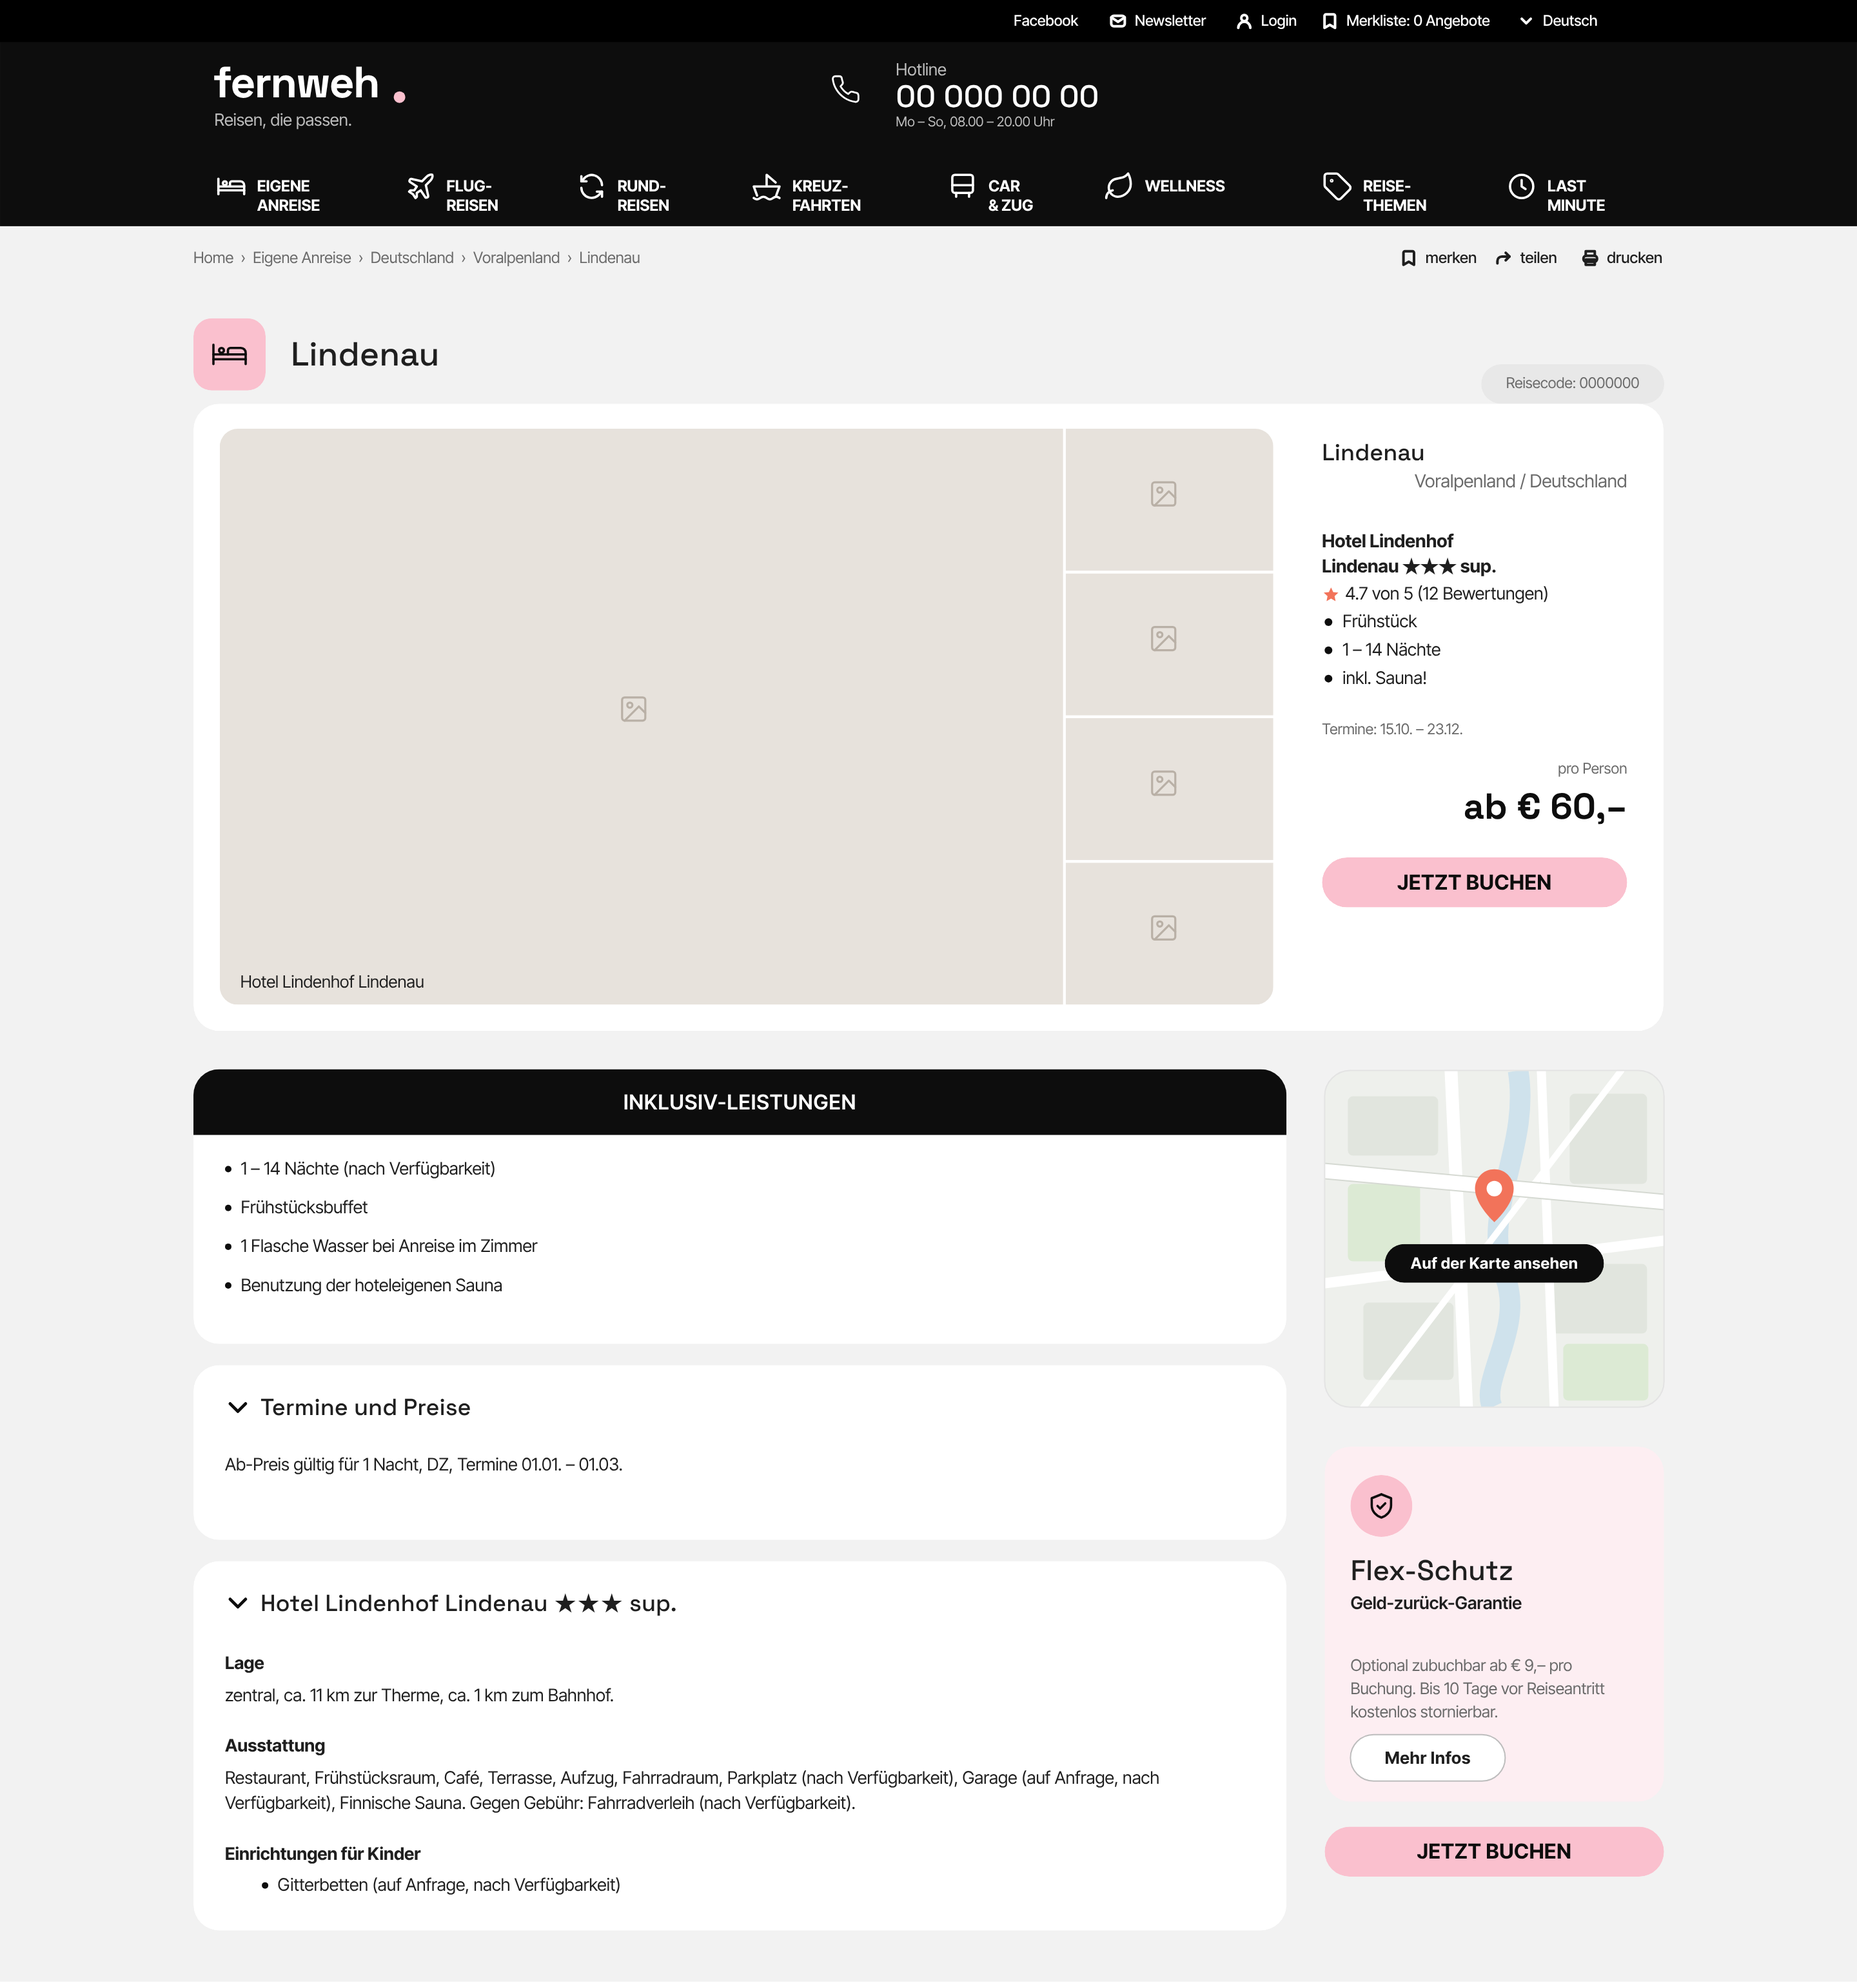
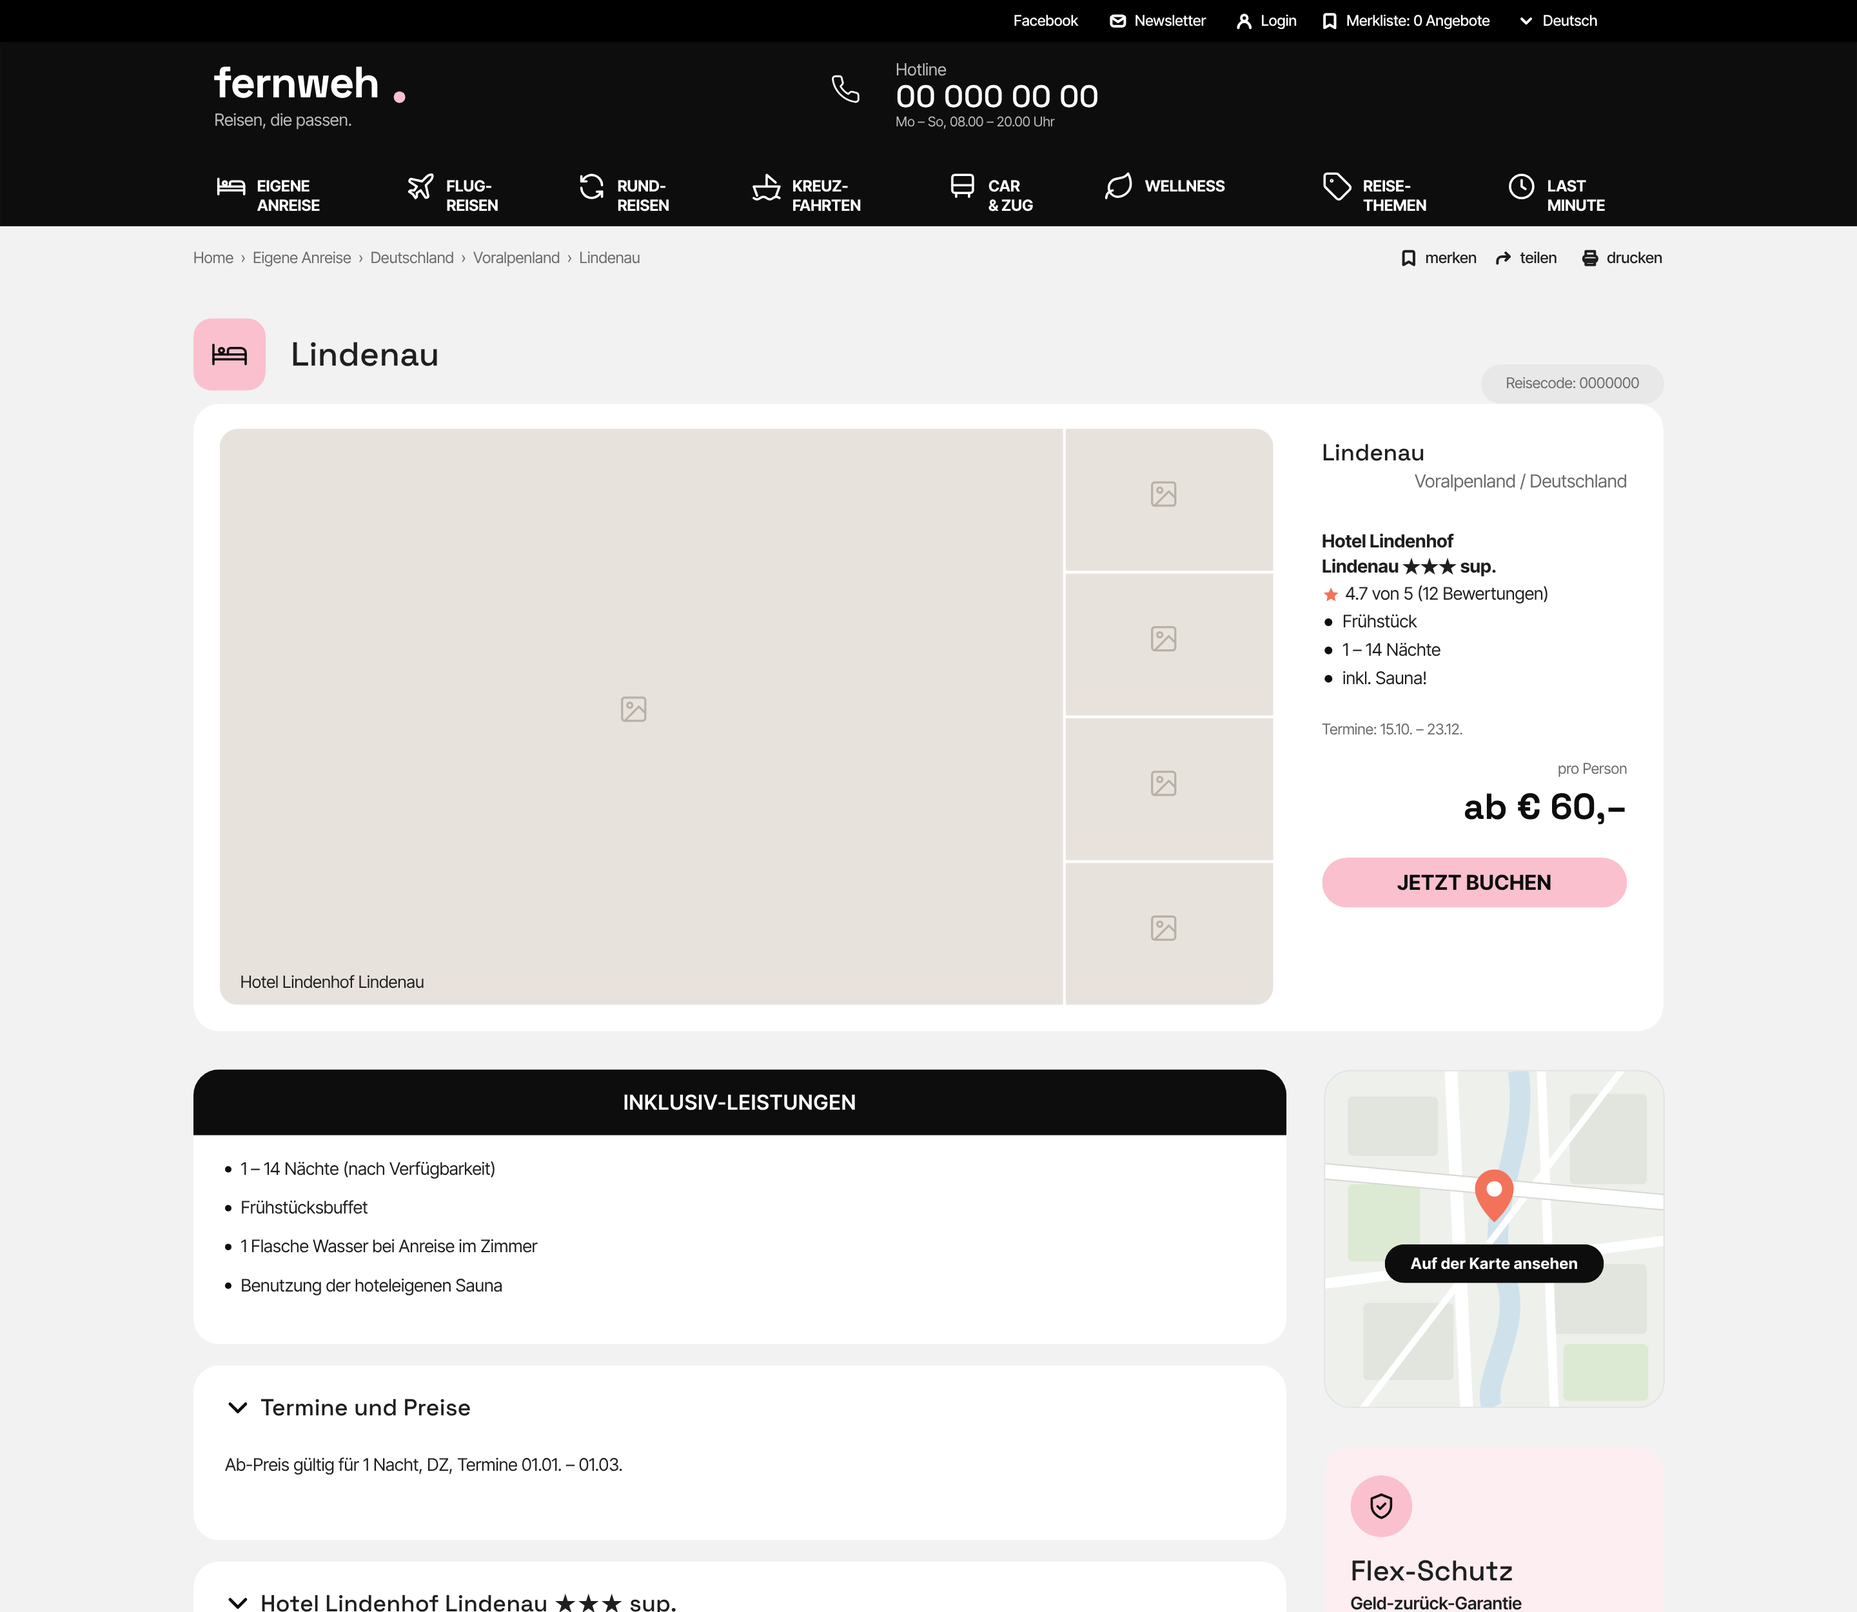
Crop case study screenshots to equal, shorter heights with fade
Claude-Session: https://claude.ai/code/session_01VCpzXNqt47KCJFf8eSNXAM

diff --git a/boat-listing.html b/boat-listing.html
@@ -59,10 +59,10 @@
     </dl>
 
     <div class="compare mobile">
-      <figure class="shot reveal"><div class="frame"><img src="img/cs5/ctrl.png" width="750" height="2920" alt="Control: boat listing on mobile with a long two-column list of more than 30 specifications directly below the price." loading="lazy"></div><figcaption><span class="label">CONTROL</span>Full data list</figcaption></figure>
-      <figure class="shot reveal" style="--d:.08s"><div class="frame"><img src="img/cs5/var1.png" width="750" height="2920" alt="Variant 1: four key facts with icons – year, dimensions, location, engine power – followed by the full list." loading="lazy"></div><figcaption><span class="label alt">VAR 01</span>Key facts + full list</figcaption></figure>
-      <figure class="shot reveal" style="--d:.16s"><div class="frame"><img src="img/cs5/var2.png" width="750" height="2920" alt="Variant 2: four key facts, the full list collapsed behind 'more details', location and remarks move up." loading="lazy"></div><figcaption><span class="label alt">VAR 02</span>Key facts, details collapsed</figcaption></figure>
-      <figure class="shot reveal" style="--d:.24s"><div class="frame"><img src="img/cs5/var3.png" width="750" height="2920" alt="Variant 2 expanded: the full list shown after tapping 'more details', with a 'fewer details' link to collapse it again." loading="lazy"></div><figcaption><span class="label alt">VAR 02</span>…expanded</figcaption></figure>
+      <figure class="shot reveal"><div class="frame cut"><img src="img/cs5/ctrl.png" width="750" height="2000" alt="Control: boat listing on mobile with a long two-column list of more than 30 specifications directly below the price." loading="lazy"></div><figcaption><span class="label">CONTROL</span>Full data list</figcaption></figure>
+      <figure class="shot reveal" style="--d:.08s"><div class="frame cut"><img src="img/cs5/var1.png" width="750" height="2000" alt="Variant 1: four key facts with icons – year, dimensions, location, engine power – followed by the full list." loading="lazy"></div><figcaption><span class="label alt">VAR 01</span>Key facts + full list</figcaption></figure>
+      <figure class="shot reveal" style="--d:.16s"><div class="frame cut"><img src="img/cs5/var2.png" width="750" height="2000" alt="Variant 2: four key facts, the full list collapsed behind 'more details', location and remarks move up." loading="lazy"></div><figcaption><span class="label alt">VAR 02</span>Key facts, details collapsed</figcaption></figure>
+      <figure class="shot reveal" style="--d:.24s"><div class="frame cut"><img src="img/cs5/var3.png" width="750" height="2000" alt="Variant 2 expanded: the full list shown after tapping 'more details', with a 'fewer details' link to collapse it again." loading="lazy"></div><figcaption><span class="label alt">VAR 02</span>…expanded</figcaption></figure>
     </div>
     <p class="note reveal" style="margin-top:14px">Screens recreated and anonymised – marketplace branding, boat, seller and photos replaced with a fictional listing.</p>
 

diff --git a/color-filter.html b/color-filter.html
@@ -59,10 +59,10 @@
     </dl>
 
     <div class="compare mobile">
-      <figure class="shot reveal"><div class="frame"><img src="img/cs4/ctrl.png" width="750" height="2080" alt="Control: mobile product grid with filter and sort buttons, no inline colour filter." loading="lazy"></div><figcaption><span class="label">CONTROL</span>No inline filter</figcaption></figure>
-      <figure class="shot reveal" style="--d:.08s"><div class="frame"><img src="img/cs4/var1.png" width="750" height="2080" alt="Variant 1: inline banner after the first product row showing all 18 colours and an 'apply filter' button." loading="lazy"></div><figcaption><span class="label alt">VAR 01</span>All 18 colours</figcaption></figure>
-      <figure class="shot reveal" style="--d:.16s"><div class="frame"><img src="img/cs4/var2.png" width="750" height="2080" alt="Variant 2: compact banner with five key colours and a chevron to expand." loading="lazy"></div><figcaption><span class="label alt">VAR 02</span>5 colours + chevron</figcaption></figure>
-      <figure class="shot reveal" style="--d:.24s"><div class="frame"><img src="img/cs4/var3.png" width="750" height="2080" alt="Variant 3: compact banner with six key colours, a 'more colours' link and the apply button on the right." loading="lazy"></div><figcaption><span class="label alt">VAR 03</span>6 colours + “more colours”</figcaption></figure>
+      <figure class="shot reveal"><div class="frame cut"><img src="img/cs4/ctrl.png" width="750" height="1660" alt="Control: mobile product grid with filter and sort buttons, no inline colour filter." loading="lazy"></div><figcaption><span class="label">CONTROL</span>No inline filter</figcaption></figure>
+      <figure class="shot reveal" style="--d:.08s"><div class="frame cut"><img src="img/cs4/var1.png" width="750" height="1660" alt="Variant 1: inline banner after the first product row showing all 18 colours and an 'apply filter' button." loading="lazy"></div><figcaption><span class="label alt">VAR 01</span>All 18 colours</figcaption></figure>
+      <figure class="shot reveal" style="--d:.16s"><div class="frame cut"><img src="img/cs4/var2.png" width="750" height="1660" alt="Variant 2: compact banner with five key colours and a chevron to expand." loading="lazy"></div><figcaption><span class="label alt">VAR 02</span>5 colours + chevron</figcaption></figure>
+      <figure class="shot reveal" style="--d:.24s"><div class="frame cut"><img src="img/cs4/var3.png" width="750" height="1660" alt="Variant 3: compact banner with six key colours, a 'more colours' link and the apply button on the right." loading="lazy"></div><figcaption><span class="label alt">VAR 03</span>6 colours + “more colours”</figcaption></figure>
     </div>
     <p class="note reveal" style="margin-top:14px">Screens recreated and anonymised – retailer branding and model photography replaced with a fictional shop and illustrations.</p>
 

diff --git a/pds-redesign.html b/pds-redesign.html
@@ -60,11 +60,11 @@
 
     <div class="compare">
       <figure class="shot reveal">
-        <div class="frame"><img src="img/cs1/ctrl.png" width="2880" height="2200" alt="Original product page (recreated, anonymised): narrow content column next to a category sidebar, small gallery, options, price and protection plans stacked tightly above the add-to-cart button." loading="lazy"></div>
+        <div class="frame cut"><img src="img/cs1/ctrl.png" width="2880" height="2200" alt="Original product page (recreated, anonymised): narrow content column next to a category sidebar, small gallery, options, price and protection plans stacked tightly above the add-to-cart button." loading="lazy"></div>
         <figcaption><span class="label">CONTROL</span>Original entry area</figcaption>
       </figure>
       <figure class="shot reveal" style="--d:.12s">
-        <div class="frame"><img src="img/cs1/var.png" width="2880" height="2840" alt="Redesigned product page (recreated, anonymised): full-width two-column layout with a large gallery on the left and a structured buy box on the right – title block, configuration panel, reference price, delivery info, primary and secondary CTA, protection plans as cards." loading="lazy"></div>
+        <div class="frame cut"><img src="img/cs1/var.png" width="2880" height="2200" alt="Redesigned product page (recreated, anonymised): full-width two-column layout with a large gallery on the left and a structured buy box on the right – title block, configuration panel, reference price, delivery info, primary and secondary CTA, protection plans as cards." loading="lazy"></div>
         <figcaption><span class="label var">VARIANT</span>Redesigned entry area</figcaption>
       </figure>
     </div>

diff --git a/checkout.html b/checkout.html
@@ -60,11 +60,11 @@
 
     <div class="compare">
       <figure class="shot reveal">
-        <div class="frame"><img src="img/cs2/ctrl.png" width="2880" height="2060" alt="Original checkout entry (recreated, anonymised): login form with a muted grey button next to a registration box that stacks three equal outline buttons – create account, member registration and guest checkout – separated by 'or' dividers." loading="lazy"></div>
+        <div class="frame"><img src="img/cs2/ctrl.png" width="2880" height="1500" alt="Original checkout entry (recreated, anonymised): login form with a muted grey button next to a registration box that stacks three equal outline buttons – create account, member registration and guest checkout – separated by 'or' dividers." loading="lazy"></div>
         <figcaption><span class="label">CONTROL</span>Original checkout entry</figcaption>
       </figure>
       <figure class="shot reveal" style="--d:.12s">
-        <div class="frame"><img src="img/cs2/var.png" width="2880" height="2110" alt="Redesigned checkout entry (recreated, anonymised): login and create-account as clear primary buttons, member registration as secondary option, and guest checkout moved into its own card 'Continue without account'." loading="lazy"></div>
+        <div class="frame"><img src="img/cs2/var.png" width="2880" height="1500" alt="Redesigned checkout entry (recreated, anonymised): login and create-account as clear primary buttons, member registration as secondary option, and guest checkout moved into its own card 'Continue without account'." loading="lazy"></div>
         <figcaption><span class="label var">VARIANT</span>Winning variant</figcaption>
       </figure>
     </div>

diff --git a/location-map.html b/location-map.html
@@ -60,11 +60,11 @@
 
     <div class="compare">
       <figure class="shot reveal">
-        <div class="frame"><img src="img/cs3/ctrl.png" width="2880" height="3216" alt="Original hotel page (recreated, anonymised): the location is only reachable through a small 'show map' button placed between the included services and the accordions." loading="lazy"></div>
+        <div class="frame cut"><img src="img/cs3/ctrl.png" width="2880" height="2500" alt="Original hotel page (recreated, anonymised): the location is only reachable through a small 'show map' button placed between the included services and the accordions." loading="lazy"></div>
         <figcaption><span class="label">CONTROL</span>Original hotel page</figcaption>
       </figure>
       <figure class="shot reveal" style="--d:.12s">
-        <div class="frame"><img src="img/cs3/var.png" width="2880" height="3076" alt="Winning variant (recreated, anonymised): an open map with a location pin sits in the right column, directly above the booking button." loading="lazy"></div>
+        <div class="frame cut"><img src="img/cs3/var.png" width="2880" height="2500" alt="Winning variant (recreated, anonymised): an open map with a location pin sits in the right column, directly above the booking button." loading="lazy"></div>
         <figcaption><span class="label var">VARIANT</span>Winning variant</figcaption>
       </figure>
     </div>

diff --git a/style.css b/style.css
@@ -199,6 +199,9 @@
   .compare{display:grid;grid-template-columns:1fr 1fr;gap:24px;margin-top:48px;align-items:start}
   .shot{display:flex;flex-direction:column;gap:12px}
   .shot .frame{background:#fff;border-radius:var(--radius);overflow:hidden;border:1px solid var(--line)}
+  .shot .frame.cut{position:relative}
+  .shot .frame.cut::after{content:"";position:absolute;left:0;right:0;bottom:0;height:min(18%,120px);background:linear-gradient(rgba(255,255,255,0),#fff);pointer-events:none}
+  .shot .frame img{display:block;width:100%;height:auto}
   .compare.mobile{grid-template-columns:repeat(4,1fr);gap:16px}
   .compare.mobile .shot figcaption{flex-wrap:wrap}
   .shot .frame img{width:100%;height:auto}
